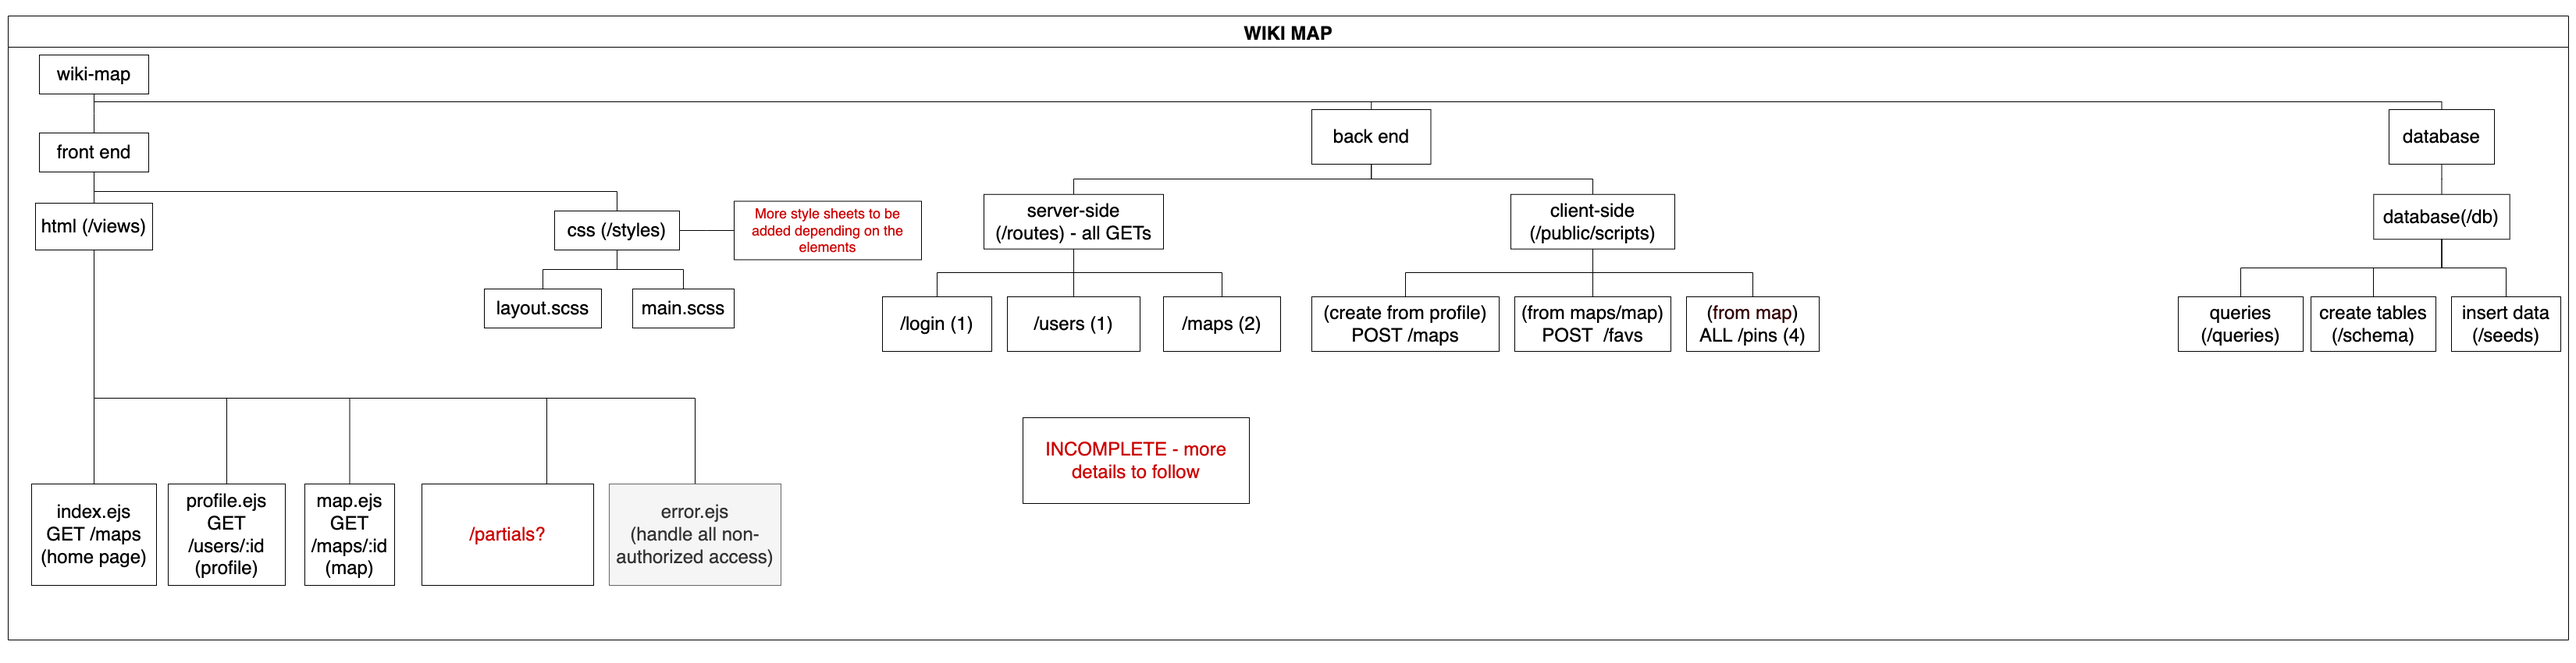
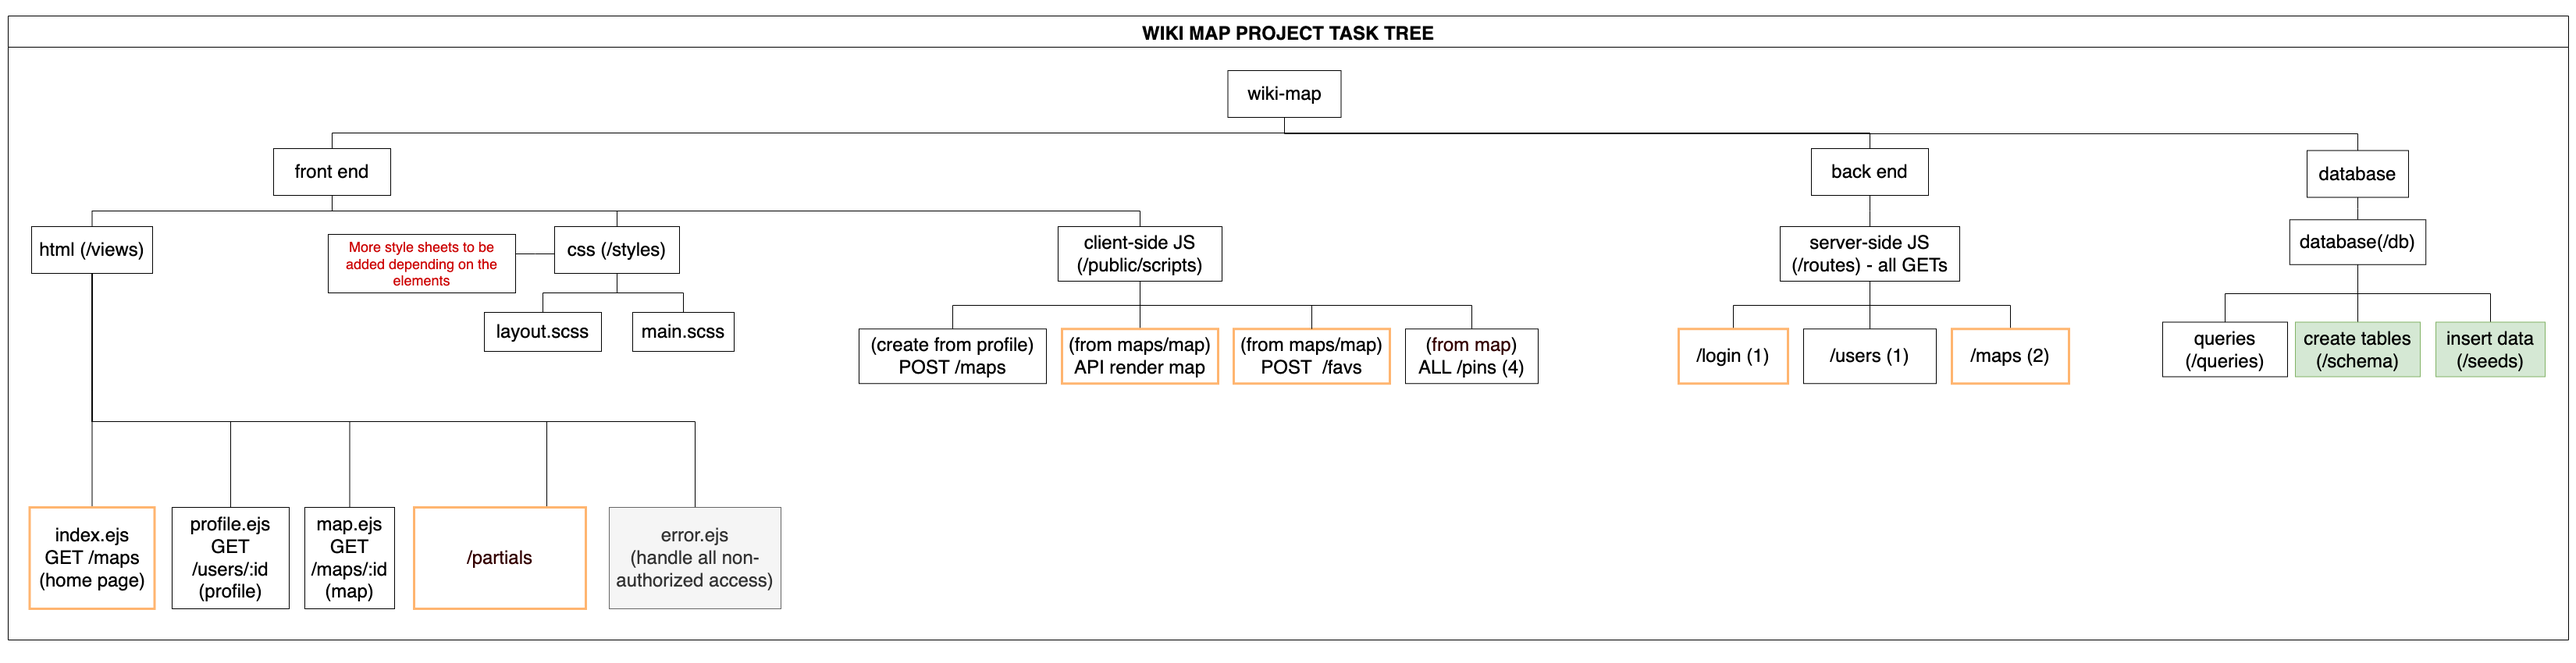
Update task-tree. Upload meeting notes for today.

diff --git a/planning/meeting_notes_20220409.md b/planning/meeting_notes_20220409.md
@@ -1,0 +1,9 @@
+# 2022-04-09 Project Planning Meeting
+## Agenda Items
+- [x] Go through Leaflet API document
+- [x] [Complete ERD](./wikimap_ERD.png)
+- [x] [Complete Task Tree](./wiki-map-task-tree.png)
+- [x] [Create Wireframes](./wiki-map-wire-frame.png)
+- [x] Created Database tables and fakes data
+- [x] Git workflow
+- [x] Assign tasks for W5 weekend and W6D1
